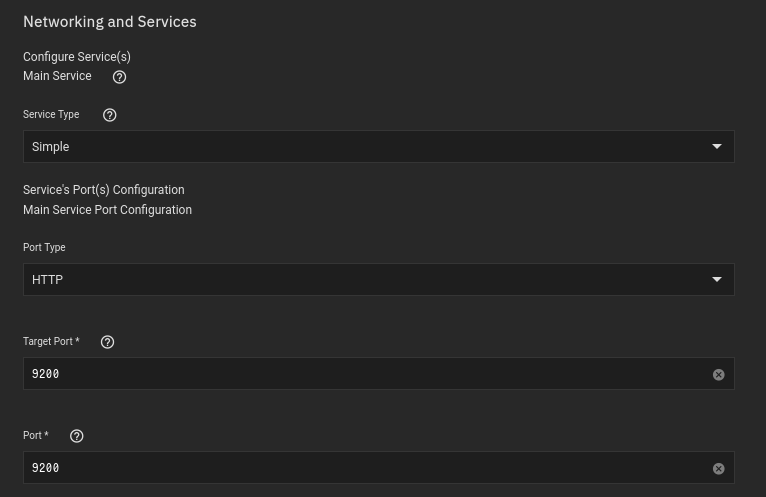
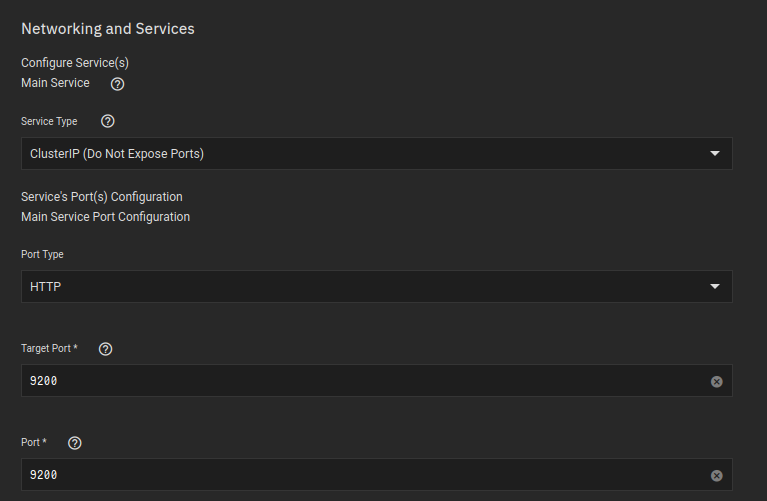
Update TubeArchivist

diff --git a/docs/applications/tube-archivist/tube-installation.md b/docs/applications/tube-archivist/tube-installation.md
@@ -97,7 +97,6 @@ youtube.myserver.com
 
 ## Networking
 
-### Ports
 
 **Target Port**
 ```
@@ -109,18 +108,8 @@ youtube.myserver.com
 ```
 
 ![!Networking: Tube](images/ta-networking.png)
+> You can change LoadBalancer to CluserIP if you only intend to use this through ingress (a domain name), if not, or you don't know, leave it as LoadBalancer
 
-
-### DNS
-
-A change is required here, otherwise sometimes the application will start and will be unable to find the `redis` and `elastic search` containers by DNS name
-
-**dnsPolicy**
-```
-ClusterFirst
-```
-
-![!Networking: Tube](images/ta-networking_dns.png)
 
 <br />
 
@@ -137,7 +126,7 @@ Ensure the mountpath is:
 
 TubeArchivist specifically looks to that mount point, its required
 
-![!Storage: Tube](images/ta-storage_data.png)
+![!Storage: Tube](images/ta-storage.png)
 
 <br />
 
@@ -148,8 +137,7 @@ Ensure the mountpath is:
 /cache
 ```
 
-
-![!Storage: Tube](images/ta-storage_config.png)
+> You of course can change `Size Quotum of Storage` to something lower. 
 
 
 <br />

diff --git a/docs/applications/tube-archivist/redis-installation.md b/docs/applications/tube-archivist/redis-installation.md
@@ -43,7 +43,7 @@ latest
 ```
 
 ![!Networking: Tube](images/redis-networking.png)
-
+> ClusterIP is being used since no other services besides TA will be accessing this container, so the port only needs to be exposed within the kubernetes network. 
 <br />
 
 ## Storage
@@ -58,7 +58,7 @@ Ensure the mountpath is:
 Redis specifically looks to that mount point, its required
 
 ![!Storage: Tube](images/redis-storage.png)
-
+> You of course can change `Size Quotum of Storage` to something lower. I cannot though. I would recommend setting it to something a bit lower. You will receive a notification on Truenas if your PVC is filling up, so you can expand the size, but you cannot EVER retract to a lower size later on. 
 
 <br />
 

diff --git a/docs/applications/tube-archivist/es-installation.md b/docs/applications/tube-archivist/es-installation.md
@@ -103,6 +103,8 @@ path.repo
 ```
 
 ![!Networking: Tube](images/es-networking.png)
+> ClusterIP is being used since no other services besides TA will be accessing this container, so the port only needs to be exposed within the kubernetes network. 
+
 
 <br />
 
@@ -118,7 +120,7 @@ Ensure the mountpath is:
 Elasticsearch specifically looks to that mount point, its required
 
 ![!Storage: Tube](images/es-storage.png)
-
+> You of course can change `Size Quotum of Storage` to something lower. I cannot though. I would recommend setting it to something a bit lower. You will receive a notification on Truenas if your PVC is filling up, so you can expand the size, but you cannot EVER retract to a lower size later on. 
 
 <br />
 

diff --git a/docs/applications/tube-archivist/about.md b/docs/applications/tube-archivist/about.md
@@ -13,14 +13,14 @@ This is easily the best option if you are wanting to data horde Youtube channels
 
 #### [Website](https://www.tubearchivist.com/)
 
-Important information regarding Syncthing
+>Important information regarding TubeArchivist
 
 
 <br >
 
 #### [Github](https://github.com/tubearchivist/tubearchivist)
 
-Source code for the project, active issues etc. 
+>Source code for the project, active issues etc. 
 
 <br >
 
